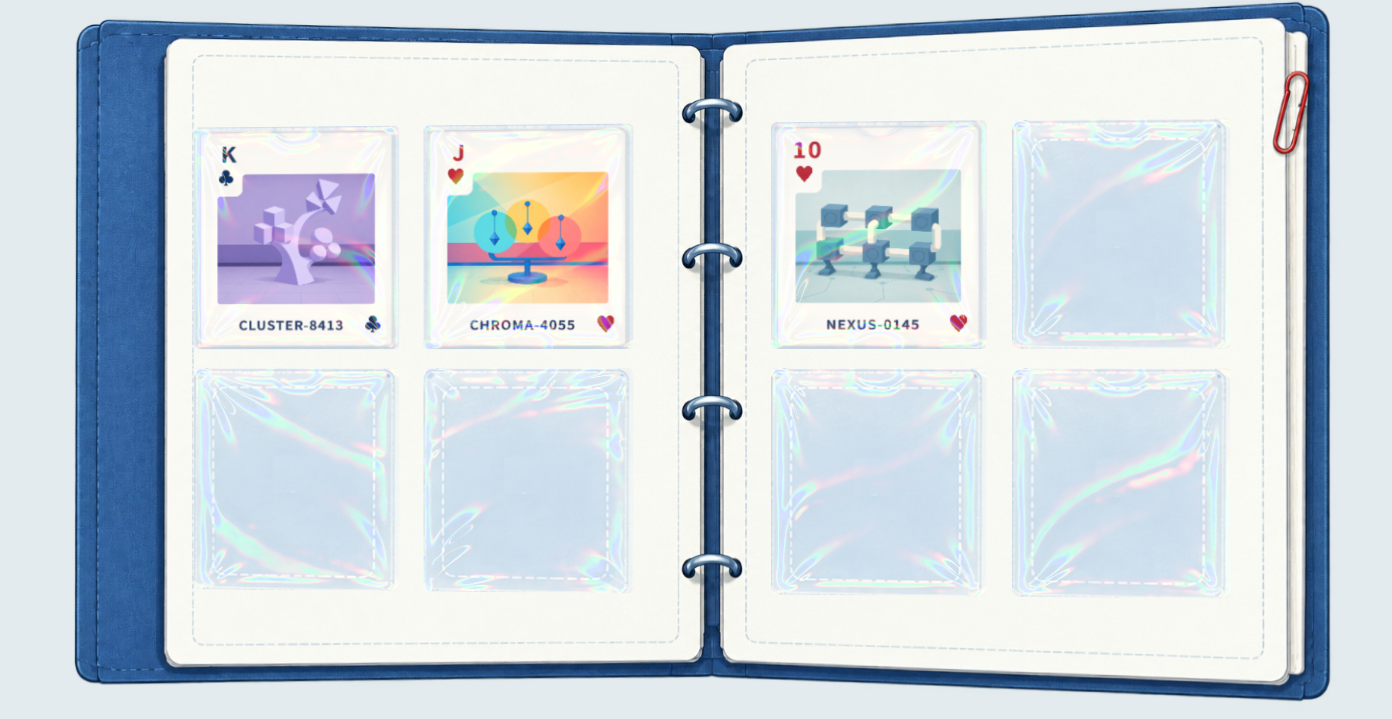
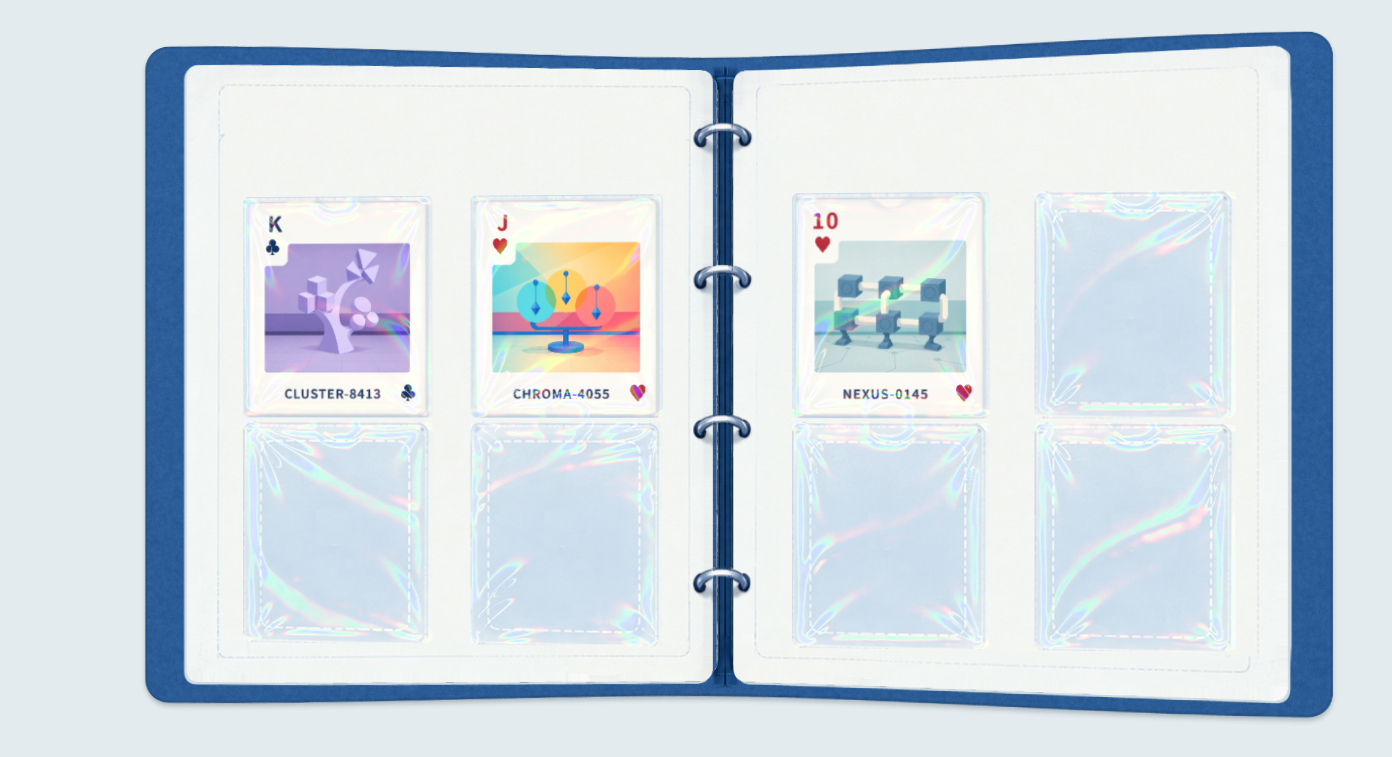
Update binder layers and card-only sleeve hover

diff --git a/demo/app.js b/demo/app.js
@@ -4,12 +4,14 @@ import {presets} from '../src/core/presets.js';
 import {PoseTween} from '../src/core/parameters.js';
 import {buildControls,syncControls} from './controls.js';
 import {loadNormal} from './normal-loader.js';
-const $=id=>document.getElementById(id), renderers=[],pose=new PoseTween(-4),errors=[];
+import {CardMotion} from './card-motion.js';
+const $=id=>document.getElementById(id), renderers=[],pose=new PoseTween(-4),errors=[],cardMotions=[];
+const reducedMotion=matchMedia('(prefers-reduced-motion: reduce)');
 let variant='B14',params={...presets.B14},mode=null,time=0,last=0,frame=0,drawCount=0,ready=false;
 function failure(error){errors.push(error.message);$('status').textContent=error.message;console.error(error);}
 function draw(){
  const inspection=+$('inspect').value;
- for(const r of renderers){if(!r)continue;r.setParameters(params);r.render({angle:pose.angle,inspect:inspection});}
+ for(let i=0;i<renderers.length;i++){const r=renderers[i];if(!r)continue;cardMotions[i]?.apply(r);r.setParameters(params);r.render({angle:pose.angle,inspect:inspection});}
  $('book').style.transform=`rotateY(${pose.angle}deg)`;syncControls(params,pose.angle,variant);drawCount++;
 }
 function requestTick(){if(!frame){last=performance.now();frame=requestAnimationFrame(tick);}}
@@ -20,7 +22,8 @@ function tick(ms){
  if(mode){time+=dt;if(mode==='play')pose.set(4*Math.sin(time*Math.PI/4));
  else {const phase=time%3.16,side=phase<1.58?-1:1,t=Math.max(0,Math.min(1,(phase%1.58-1.2)/.38)),q=t*t*t*(t*(t*6-15)+10);pose.set(side*4*(1-2*q));}}
  else pose.advance(dt);
- draw();if(mode||pose.active)frame=requestAnimationFrame(tick);
+ for(const motion of cardMotions)motion?.advance(dt);
+ draw();if(mode||pose.active||cardMotions.some(m=>m?.active))frame=requestAnimationFrame(tick);
 }
 function patch(values){params={...params,...values};draw();}
 async function restore(next=variant){
@@ -37,21 +40,23 @@ $('variant').onchange=()=>restore($('variant').value);$('restore').onclick=()=>r
 $('resetLocal').onclick=()=>patch(Object.fromEntries(['flatFloor','localBoost','threshold','softness','whiteGain'].map(k=>[k,presets[variant][k]])));
 $('uniform').onclick=()=>patch({flatFloor:1,localBoost:1,whiteGain:1});
 $('uniformStructure').onclick=()=>patch({richness:0});$('restoreStructure').onclick=()=>patch({richness:22,bend:.45});
-$('stage').onpointermove=e=>{if(mode||!renderers.some(Boolean))return;const rect=$('stage').getBoundingClientRect(),next=e.clientX<rect.left+rect.width/2?-4:4;if(pose.target!==next)go(next);};
+$('stage').onpointermove=e=>{if(mode||!renderers.some(Boolean)||reducedMotion.matches)return;const rect=$('stage').getBoundingClientRect(),x=e.clientX-rect.left-rect.width/2,width=$('book').offsetWidth;const next=Math.abs(x)>width/2?0:Math.abs(x)<3*width/1190?pose.target:x<0?-4:4;if(pose.target!==next)go(next);};
 $('stage').onpointerleave=()=>{if(!mode&&renderers.some(Boolean))go(0);};
-function setView(){const material=$('view').value==='material';$('book').classList.toggle('material',material);$('pocketLabel').hidden=!material;for(let i=0;i<8;i++)$(`slot${i}`).hidden=material&&i!==+$('pocket').value;}
+function setView(){for(const motion of cardMotions)motion?.to(false);requestTick();const material=$('view').value==='material';$('book').classList.toggle('material',material);$('pocketLabel').hidden=!material;for(let i=0;i<8;i++)$(`slot${i}`).hidden=material&&i!==+$('pocket').value;}
 $('view').onchange=setView;$('pocket').onchange=setView;
 async function init(){
  $('variant').disabled=true;$('restore').disabled=true;
  syncControls(params,pose.angle,variant);
  const shader=loadShader(variant);
+ const sleeve=new Image();sleeve.src=new URL('./assets/images/base-3.webp',import.meta.url);
+ const sleeveReady=sleeve.decode();
  let completed=0;
  const jobs=[];
  // Attach every base image immediately; reveal each canvas only after its first draw.
  for(let i=0;i<8;i++){
-  const slot=document.createElement(i<3?'button':'div');slot.id=`slot${i}`;slot.className='pocket '+(i<3?'card':'empty');
-  slot.style.left=[10.5,28.8,55.8,74.1][i%4]+'%';slot.style.top=(i<4?16.5:51.8)+'%';
-  if(i<3){slot.type='button';slot.setAttribute('aria-label',`Material sample ${i+1}`);slot.onfocus=()=>go(i<2?-4:4);slot.onblur=()=>go(0);}
+  const slot=document.createElement('div');slot.id=`slot${i}`;slot.className='pocket '+(i<3?'card':'empty');
+  slot.style.left=(50+([-348,-125,185,413][i%4]-93.06)/(1190*1150/1102)*100)+'%';slot.style.top=(50-((i<4?65:-153)+107.16)/699.84*100)+'%';
+  if(i<3){slot.setAttribute('aria-label',`Material sample ${i+1}`);slot.onpointerenter=()=>{if(!reducedMotion.matches&&$('view').value==='book'){cardMotions[i]?.to(true);requestTick();}};slot.onpointerleave=()=>{cardMotions[i]?.to(false);requestTick();};}
   const background=new Image();background.alt='';background.className='base-preview';
   background.src=new URL(`./assets/images/base-${i<3?i:3}.webp`,import.meta.url);
   const canvas=document.createElement('canvas');canvas.id=`pocket${i}`;canvas.hidden=true;
@@ -59,9 +64,10 @@ async function init(){
   jobs.push((async()=>{
    let renderer;
    try{
-    await Promise.all([background.decode(),shader]);
+    await Promise.all([background.decode(),shader,sleeveReady]);
     const normal=await loadNormal(i);
     renderer=await FoilRenderer.create(canvas,{normal,background});
+    if(i<3){const content=background.cloneNode();content.className='card-content';slot.insertBefore(content,canvas);cardMotions[i]=new CardMotion(slot,background,sleeve);}
     renderer.setParameters(params);renderer.render({angle:pose.angle,inspect:+$('inspect').value});
     renderers[i]=renderer;canvas.hidden=false;background.hidden=true;
     completed++;$('status').textContent=`材质加载 ${completed} / 8`;
@@ -75,7 +81,7 @@ async function init(){
  else $('status').textContent=`材质已加载 ${completed} / 8，请刷新重试`;
 }
 // Small inspectable demo API, also used by regression tests. It is not the renderer API.
-window.foilDemo={get renderers(){return renderers;},state:()=>({ready,variant,parameters:{...params},angle:pose.angle,target:pose.target,active:pose.active,drawCount,errors,glErrors:renderers.filter(Boolean).map(r=>r.gl.getError())}),setAngle(angle){stop();pose.set(angle);draw();},go,restore,patch,capture(){draw();return renderers.filter(Boolean).map(r=>r.canvas.toDataURL());}};
+window.foilDemo={get renderers(){return renderers;},state:()=>({ready,variant,parameters:{...params},angle:pose.angle,target:pose.target,active:pose.active,cardOffsets:cardMotions.map(m=>m.offset),drawCount,errors,glErrors:renderers.filter(Boolean).map(r=>r.gl.getError())}),setAngle(angle){stop();pose.set(angle);draw();},go,restore,patch,capture(){draw();return renderers.filter(Boolean).map(r=>r.canvas.toDataURL());}};
 window.addEventListener('pagehide',()=>{cancelAnimationFrame(frame);for(const r of renderers)r?.dispose();});
 window.addEventListener('webglcontextlost',e=>{e.preventDefault();stop();cancelAnimationFrame(frame);failure(new Error('WebGL 已中断，请刷新'));},true);
 init().catch(failure);

diff --git a/demo/style.css b/demo/style.css
@@ -1,3 +1,12 @@
-:root{color-scheme:light;--ink:#24394d;--muted:#536b7e;--line:#b7c7d2;--paper:#f6f8f7;--accent:#286486}*{box-sizing:border-box}body{margin:0;background:#e3ebee;color:var(--ink);font:14px/1.5 'Segoe UI','Microsoft YaHei',sans-serif}main{max-width:1560px;margin:auto;padding:24px}header{display:flex;align-items:center;justify-content:space-between;gap:16px;border-bottom:1px solid var(--line);padding-bottom:16px}h1{font-size:24px;font-weight:600;margin:0;letter-spacing:-.5px}h1 span{font-size:14px;font-weight:400;color:var(--muted);letter-spacing:0}nav{display:flex;gap:16px}a{color:var(--accent)}button,select,input{font:inherit}button,select{background:var(--paper);color:var(--ink);border:1px solid var(--line);border-radius:4px;padding:6px 10px}button{cursor:pointer}button:hover{background:#fff}button:disabled{opacity:.5;cursor:default}:focus-visible{outline:3px solid var(--accent);outline-offset:3px}.toolbar{display:flex;align-items:center;gap:12px;flex-wrap:wrap;margin:16px 0}label{display:flex;align-items:center;gap:8px}.controls{display:grid;grid-template-columns:repeat(4,minmax(0,1fr));gap:12px 24px;border-top:1px solid var(--line);padding-top:16px}.controls label{display:grid;grid-template-columns:1fr auto;gap:4px}.controls input,.controls select{grid-column:1/-1;width:100%;min-width:0}.controls output{font-variant-numeric:tabular-nums;color:var(--muted);font-size:12px}input{accent-color:var(--accent)}#stage{perspective:1800px;touch-action:pan-y;padding:8px 0 16px}#book{position:relative;aspect-ratio:1716/917;transform-style:preserve-3d;max-width:1300px;margin:auto}#book>img{display:block;width:100%;height:100%;pointer-events:none}.pocket{position:absolute;width:16.32%;height:32.62%;padding:0;border:0;background:none;border-radius:6px;transition:translate 180ms ease,scale 180ms ease;box-shadow:none}.pocket canvas{width:100%;height:100%;display:block;border-radius:5px}.pocket.card:hover,.pocket.card:focus-visible{translate:0 -3px;scale:1.015}.pocket.empty{pointer-events:none}#status{margin-left:auto;color:var(--muted);font-size:12px}#book.material{width:min(100%,360px);aspect-ratio:244/274}#book.material>img{display:none}#book.material .pocket{left:0!important;top:0!important;width:100%;height:100%}[hidden]{display:none!important}@media(max-width:1000px){.controls{grid-template-columns:repeat(3,minmax(0,1fr))}}@media(max-width:700px){main{padding:12px}.controls{grid-template-columns:repeat(2,minmax(0,1fr));gap:12px}h1 span{display:none}.toolbar{gap:8px}button,select{padding:6px}#status{margin-left:0}nav{gap:8px}.pocket.card:hover{translate:0 -1px}}@media(prefers-reduced-motion:reduce){.pocket{transition:none}}
+:root{color-scheme:light;--ink:#24394d;--muted:#536b7e;--line:#b7c7d2;--paper:#f6f8f7;--accent:#286486}*{box-sizing:border-box}body{margin:0;background:#e3ebee;color:var(--ink);font:14px/1.5 'Segoe UI','Microsoft YaHei',sans-serif}main{max-width:1560px;margin:auto;padding:24px}header{display:flex;align-items:center;justify-content:space-between;gap:16px;border-bottom:1px solid var(--line);padding-bottom:16px}h1{font-size:24px;font-weight:600;margin:0;letter-spacing:-.5px}h1 span{font-size:14px;font-weight:400;color:var(--muted);letter-spacing:0}nav{display:flex;gap:16px}a{color:var(--accent)}button,select,input{font:inherit}button,select{background:var(--paper);color:var(--ink);border:1px solid var(--line);border-radius:4px;padding:6px 10px}button{cursor:pointer}button:hover{background:#fff}button:disabled{opacity:.5;cursor:default}:focus-visible{outline:3px solid var(--accent);outline-offset:3px}.toolbar{display:flex;align-items:center;gap:12px;flex-wrap:wrap;margin:16px 0}label{display:flex;align-items:center;gap:8px}.controls{display:grid;grid-template-columns:repeat(4,minmax(0,1fr));gap:12px 24px;border-top:1px solid var(--line);padding-top:16px}.controls label{display:grid;grid-template-columns:1fr auto;gap:4px}.controls input,.controls select{grid-column:1/-1;width:100%;min-width:0}.controls output{font-variant-numeric:tabular-nums;color:var(--muted);font-size:12px}input{accent-color:var(--accent)}#stage{perspective:1800px;touch-action:pan-y;padding:8px 0 16px}#book{position:relative;aspect-ratio:2300/1296;transform-style:preserve-3d;max-width:1300px;margin:auto}#book>img{display:block;width:100%;height:100%;pointer-events:none}.pocket{position:absolute;width:14.987%;height:30.624%;padding:0;border:0;background:none;border-radius:6px;box-shadow:none}.pocket canvas{width:100%;height:100%;display:block;border-radius:5px}.pocket.empty{pointer-events:none}#status{margin-left:auto;color:var(--muted);font-size:12px}#book.material{width:min(100%,360px);aspect-ratio:244/274}#book.material>img{display:none}#book.material .pocket{left:0!important;top:0!important;width:100%;height:100%}[hidden]{display:none!important}@media(max-width:1000px){.controls{grid-template-columns:repeat(3,minmax(0,1fr))}}@media(max-width:700px){main{padding:12px}.controls{grid-template-columns:repeat(2,minmax(0,1fr));gap:12px}h1 span{display:none}.toolbar{gap:8px}button,select{padding:6px}#status{margin-left:0}nav{gap:8px}}@media(prefers-reduced-motion:reduce){.pocket{transition:none}}
 
 .pocket .base-preview{display:block;width:100%;height:100%;border-radius:5px;object-fit:fill;pointer-events:none}
+
+#book>.book-art{position:absolute;inset:0;pointer-events:none}
+#book>.book-pages{width:95.826087%;height:92.592593%;left:2.0869565%;top:3.7037035%}
+#book>.book-ring{width:5.391304%;height:4.9382716%;left:49.565217%;z-index:2}
+#book>.ring-0{top:15.432099%}#book>.ring-1{top:34.876543%}#book>.ring-2{top:55.246914%}#book>.ring-3{top:76.234568%}
+.pocket{isolation:isolate;transition:none}
+.pocket canvas{position:relative;z-index:1;pointer-events:none}
+.pocket .card-content{position:absolute;inset:0;width:100%;height:100%;clip-path:inset(2.919708% 3.278688% round 3px);translate:0 var(--card-lift,0%);pointer-events:none}
+#book.material .card-content{display:none}

diff --git a/index.html b/index.html
@@ -2,7 +2,15 @@
 <html lang="zh-CN"><head><meta charset="utf-8"><meta name="viewport" content="width=device-width,initial-scale=1"><title>Luster</title><link rel="icon" href="data:,"><link rel="stylesheet" href="./demo/style.css"><link rel="modulepreload" href="./demo/app.js"><link rel="preload" href="./demo/assets/images/base-0.webp" as="image"><link rel="preload" href="./src/shaders/B14.frag" as="fetch" crossorigin></head>
 <body><main><header><h1>Luster<span> / 镭射覆膜</span></h1><nav><a href="https://github.com/onovich/Luster/blob/main/docs/guide.md">Guide</a><a href="https://github.com/onovich/Luster">GitHub</a></nav></header>
 <section class="toolbar" aria-label="演示"><label>方案<select id="variant"><option>B14</option><option>B11</option></select></label><button id="restore">恢复预设</button><label>视图<select id="view"><option value="book">书本</option><option value="material">材质</option></select></label><label id="pocketLabel" hidden>法线<select id="pocket"></select></label><button id="left">−4°</button><button id="center">0°</button><button id="right">+4°</button><button id="play">往返</button><button id="dwell">停留</button></section>
-<div id="stage" aria-label="左右移动倾斜书本"><div id="book"><img src="./demo/assets/images/book.webp" alt="蓝色书本" fetchpriority="high" decoding="async"><div id="pockets"></div></div></div>
+<div id="stage" aria-label="左右移动倾斜书本"><div id="book">
+<img class="book-art book-shadow" src="./demo/assets/images/book-shadow.webp" alt="">
+<img class="book-art book-cover" src="./demo/assets/images/book-cover.webp" alt="蓝色皮套" fetchpriority="high" decoding="async">
+<img class="book-art book-pages" src="./demo/assets/images/book-pages.webp" alt="卡册内页" fetchpriority="high" decoding="async">
+<img class="book-art book-ring ring-0" src="./demo/assets/images/book-ring-0.webp" alt="">
+<img class="book-art book-ring ring-1" src="./demo/assets/images/book-ring-1.webp" alt="">
+<img class="book-art book-ring ring-2" src="./demo/assets/images/book-ring-2.webp" alt="">
+<img class="book-art book-ring ring-3" src="./demo/assets/images/book-ring-3.webp" alt="">
+<div id="pockets"></div></div></div>
 <section class="controls" aria-label="材质参数" id="controls"></section>
 <section class="toolbar" aria-label="对照"><label><input id="enabled" type="checkbox" checked>反光</label><label>检查<select id="inspect"><option value="0">完整</option><option value="1">反光</option><option value="3">法线</option><option value="4">范围</option><option value="5">间距</option></select></label><button id="resetLocal">恢复范围</button><button id="uniform">均匀覆膜</button><button id="uniformStructure">关闭关联</button><button id="restoreStructure">恢复关联</button><output id="status" role="status">加载…</output></section>
 </main><script type="module" src="./demo/app.js"></script></body></html>

diff --git a/demo/card-motion.js b/demo/card-motion.js
@@ -1,0 +1,33 @@
+// The card slides inside a stationary sleeve. Units are source-art pixels.
+export class CardMotion {
+ constructor(slot,image,sleeve){
+  this.slot=slot;this.image=image;this.sleeve=sleeve;
+  this.offset=this.start=this.target=0;this.elapsed=.16;this.active=false;this.previous=null;
+  this.background=document.createElement('canvas');this.background.width=244;this.background.height=274;
+  this.context=this.background.getContext('2d');
+ }
+ to(raised){
+  const next=raised?55/228*274:0;
+  if(next===this.target)return;
+  this.start=this.offset;this.target=next;this.elapsed=0;this.active=true;
+ }
+ advance(dt){
+  if(!this.active)return;
+  this.elapsed=Math.min(.16,this.elapsed+dt);
+  const t=this.elapsed/.16,eased=this.target>0?1-(1-t)**3:t;
+  this.offset=this.start+(this.target-this.start)*eased;this.active=t<1;
+ }
+ apply(renderer){
+  if(this.previous===this.offset)return;
+  this.slot.style.setProperty('--card-lift',`${-this.offset/274*100}%`);
+  if(this.offset===0)renderer.setBackground(this.image);
+  else{
+   const ctx=this.context;
+   ctx.clearRect(0,0,244,274);ctx.drawImage(this.sleeve,0,0,244,274);
+   // Trim only the baked sleeve rim from the example; it must not slide with the card.
+   ctx.drawImage(this.image,8,8,228,258,8,8-this.offset,228,258);
+   renderer.setBackground(this.background);
+  }
+  this.previous=this.offset;
+ }
+}

diff --git a/tests/assets.py b/tests/assets.py
@@ -20,8 +20,8 @@ for i in range(8):
 for i in range(3):
  patch=Image.open(root/f'demo/assets/images/base-{i}.png').convert('RGB').crop((210,5,234,34))
  assert not any(r>g*1.3 and r>b*1.3 for r,g,b in zip(*[iter(patch.tobytes())]*3)),f'red dot remains in {i}'
-for name in ['book','base-0','base-1','base-2','base-3']:
+for name in ['book-cover', 'book-pages', 'book-shadow', *[f'book-ring-{i}' for i in range(4)], 'base-0', 'base-1', 'base-2', 'base-3']:
  original=Image.open(root/f'demo/assets/images/{name}.png').convert('RGBA')
  webp=Image.open(root/f'demo/assets/images/{name}.webp').convert('RGBA')
  assert original.size==webp.size and original.tobytes()==webp.tobytes(),f'WebP pixels: {name}'
-print('PASS: 9 reference hashes, 8 atlas tiles/orientations, 8 lossless packed normals, 5 lossless WebP images, 3 red-dot patches.')
+print('PASS: 9 reference hashes, 8 atlas tiles/orientations, 8 lossless packed normals, 11 lossless WebP images, 3 red-dot patches.')

diff --git a/tools/pack-images.py b/tools/pack-images.py
@@ -4,7 +4,7 @@ from PIL import Image
 
 folder = Path(__file__).resolve().parents[1] / 'demo/assets/images'
 before = after = 0
-for name in ['book', 'base-0', 'base-1', 'base-2', 'base-3']:
+for name in ['book-cover', 'book-pages', 'book-shadow', *[f'book-ring-{i}' for i in range(4)], 'base-0', 'base-1', 'base-2', 'base-3']:
     source = folder / f'{name}.png'
     target = folder / f'{name}.webp'
     original = Image.open(source).convert('RGBA')

diff --git a/docs/assets.md b/docs/assets.md
@@ -2,7 +2,7 @@
 
 The project owner permits reuse here of the example images, interactions and book presentation. That permission does not publish the originating application's business model or grant downstream users a general artwork license.
 
-- `demo/assets/images/book.png`: clean book artwork, without application navigation or business controls.
+- `demo/assets/images/book-*.png`: separate cover, pages, shadow and four binding rings. The demo omits decorative paperclip layers.
 - `base-0.png` through `base-2.png`: illustrative card samples; baked notification dots were removed before publication. Visible illustration labels are sample artwork, not public application entities or a game data schema.
 - `base-3.png` through `base-7.png`: neutral sleeve examples without application action icons.
 - `demo/assets/normals/normal-*.rgba`: eight fixed packed normal fields. Five are image-based estimates, with three flipped variants; these are not measured scans.
@@ -17,6 +17,6 @@ No open-source license is currently included. Code, artwork and normal fields mu
 
 ## Lossless delivery copies
 
-The demo loads `book.webp` and `base-0.webp` through `base-3.webp`. These are lossless encodings of the preserved PNG originals, including exact transparent RGBA values. Slots 3–7 share the same sleeve image. Run `npm run assets:images` (Python with Pillow) to regenerate them; `python tests/assets.py` verifies decoded byte equality. The five active images total 1,531,698 bytes instead of 2,276,263 bytes (32.7% less).
+The demo loads lossless WebP copies of seven book layers and four card/sleeve images. Slots 3–7 share the same sleeve image. Run `npm run assets:images` (Python with Pillow) to regenerate them; `python tests/assets.py` verifies exact decoded RGBA equality against all eleven PNG originals.
 
-The original PNGs remain available for provenance and full-composite regression tests. No dimensions, colors, alpha values or rendering parameters were changed.
+Card hover lifts only the printed card by 55/228 of the pocket height, with a 160 ms cubic-out entrance and linear return. The pocket and its normal field stay fixed. Reduced-motion preferences disable hover movement.

diff --git a/docs/verification.md b/docs/verification.md
@@ -8,7 +8,7 @@ Evidence mode: **runtime-tested**. Tested with Windows, installed Chrome headles
 | Asset integrity | 9 public fixture hashes, 8 atlas tiles/orientations, 3 notification-dot removal patches |
 | Public optical regression | B11/B14 × reflection/normal × five angles × eight samples = 160 exact PNG comparisons |
 | Original local optical regression | Same 160 comparisons against untouched original reference HTML passed; original HTML is not published |
-| Controls and layout | 11 material controls, preset restore, inspection, pointer/focus, reversal, pause/rest, eight material views; 320/768/1024/1440 px without horizontal overflow |
+| Controls and layout | 11 material controls, preset restore, inspection, pointer tilt and card-only hover (stationary sleeve), reduced motion, reversal, pause/rest, eight material views; 320/768/1024/1440 px without horizontal overflow |
 | Browser / GPU errors | No page/console errors; all eight WebGL error values zero |
 | Continuity | Every 0→0.01° sample changed by a small nonzero amount, below 5% of its −4→+4° difference |
 | Resource lifecycle | Custom normal dimensions, replacement image, resize, invalid parameter rejection, repeated disposal and GPU resource release |
